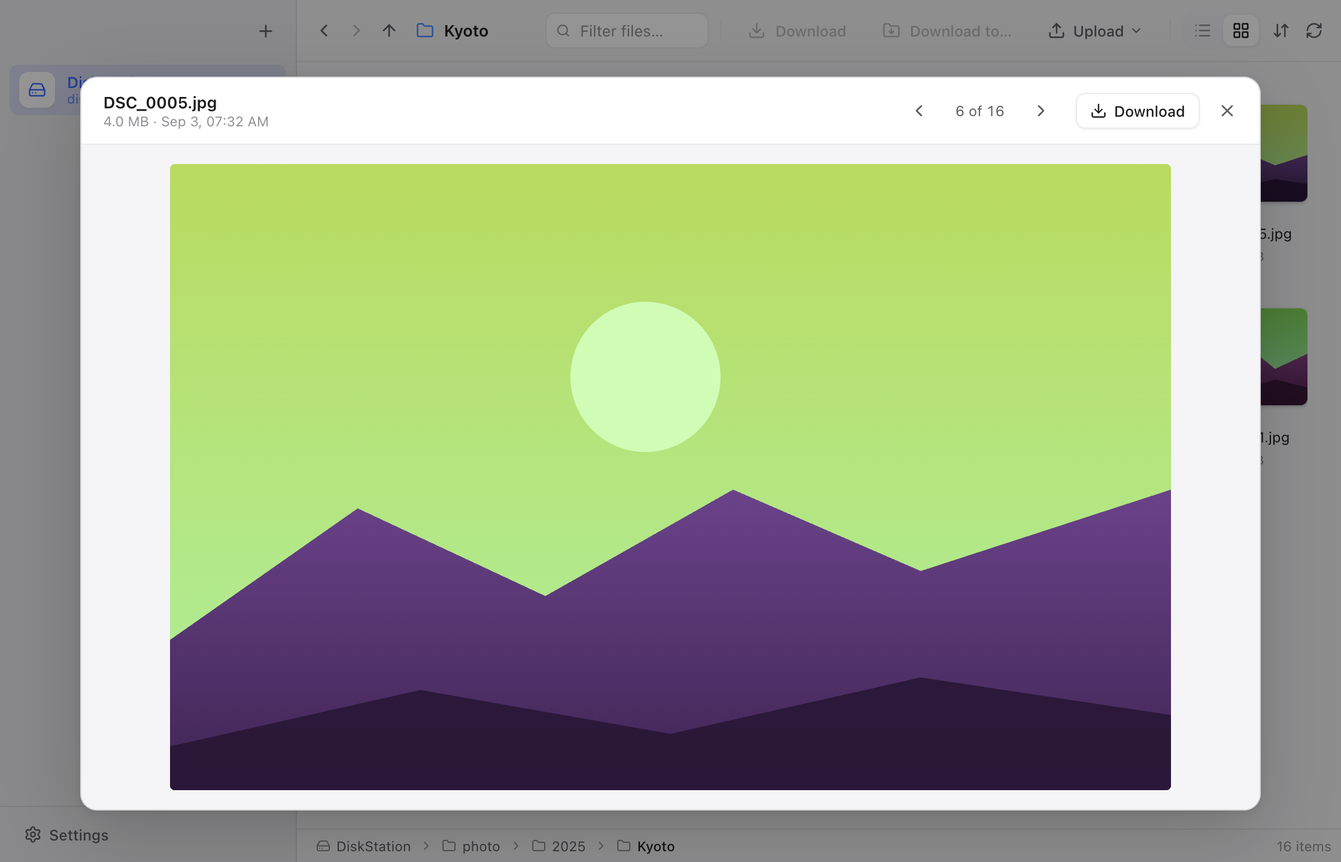
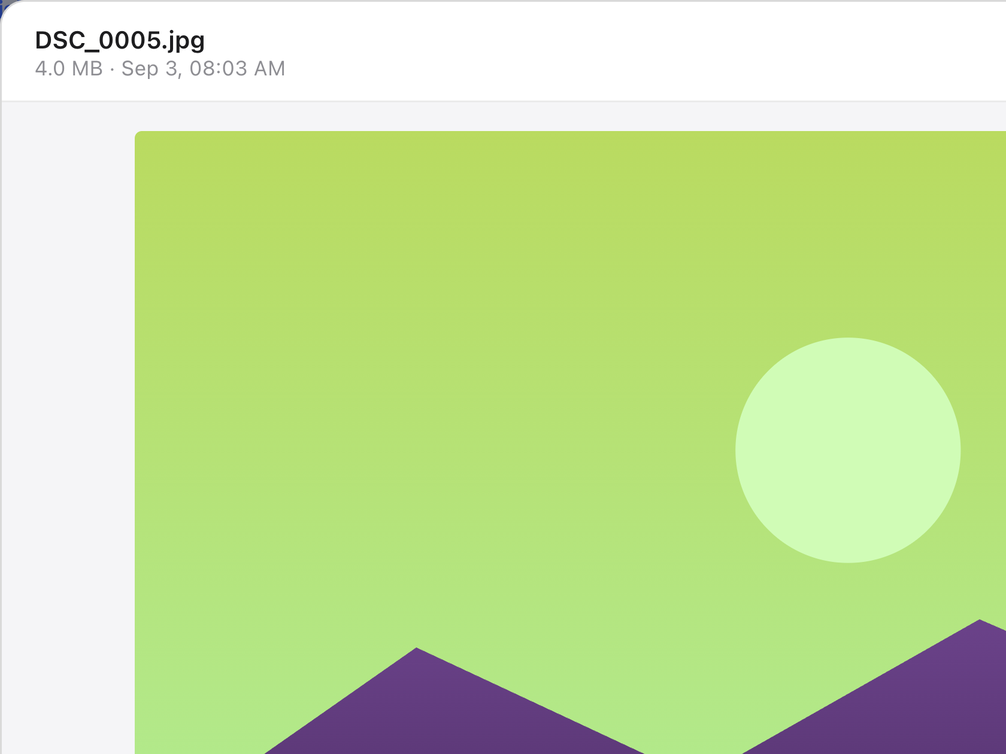
Website: replace full-window gallery with six feature close-ups
Full-window screenshots all looked alike, so the gallery now shows 4:3
close-ups rendered at 3x, each on one feature: the saved NAS in the
sidebar, photo thumbnails, Quick Look, the transfers popover, discovered
servers and the appearance/language settings. The screenshot script
crops around the elements it finds on the page; only the hero keeps the
whole window.

diff --git a/docs/index.html b/docs/index.html
@@ -76,12 +76,13 @@
   .shot .light.r { left: 1.7%; background: var(--mac-red); } .shot .light.y { left: 3.75%; background: var(--mac-yel); } .shot .light.g { left: 5.8%; background: var(--mac-grn); }
   .hero-shot { transform: perspective(1400px) rotateY(-6deg) rotateX(2deg); transition: transform .5s ease; }
   .hero-shot:hover { transform: none; }
-  .gallery { display: grid; grid-template-columns: 1fr 1fr; gap: 22px; margin-top: 36px; }
-  .gallery figure { margin: 0; }
-  .gallery figcaption { padding: 14px 6px 0; }
-  .gallery h3 { margin: 0 0 4px; font-size: 16px; }
-  .gallery p { margin: 0; font-size: 14px; color: var(--text-2); }
-  .gallery .wide { grid-column: 1 / -1; }
+  .details { display: grid; grid-template-columns: repeat(3, 1fr); gap: 22px; margin-top: 36px; }
+  .details figure { margin: 0; }
+  .detail { border-radius: 14px; overflow: hidden; border: 1px solid var(--line-2); background: var(--bg-2); box-shadow: 0 10px 30px rgba(0,0,0,.10); aspect-ratio: 4 / 3; }
+  .detail img { display: block; width: 100%; height: 100%; object-fit: cover; }
+  .details figcaption { padding: 14px 6px 0; }
+  .details h3 { margin: 0 0 4px; font-size: 16px; }
+  .details p { margin: 0; font-size: 14px; color: var(--text-2); }
   /* Sections */
   section { padding: 72px 0; }
   .kicker { color: var(--accent); font-weight: 700; font-size: 13px; letter-spacing: .06em; text-transform: uppercase; }
@@ -117,12 +118,13 @@
   @media (max-width: 900px) {
     .hero { grid-template-columns: 1fr; padding-top: 56px; }
     .hero-shot { transform: none; }
-    .gallery { grid-template-columns: 1fr; }
+    .details { grid-template-columns: 1fr; }
     .three, .steps, .stats { grid-template-columns: 1fr; }
     .grid { grid-template-columns: 1fr 1fr; }
     .oss { grid-template-columns: 1fr; padding: 28px; }
     nav .links a.hide-sm { display: none; }
   }
+  @media (max-width: 1000px) and (min-width: 561px) { .details { grid-template-columns: 1fr 1fr; } }
   @media (max-width: 560px) { .grid { grid-template-columns: 1fr; } }
 </style>
 </head>
@@ -188,13 +190,14 @@
   </section>
   <section id="screens">
     <span class="kicker" data-i18n="gallery.kicker">See it in action</span>
-    <h2 data-i18n="gallery.title">The whole app, at a glance</h2>
-    <div class="gallery">
-      <figure class="wide"><div class="shot"><img data-shot="quicklook" alt="Quick Look of a photo"><i class="light r"></i><i class="light y"></i><i class="light g"></i></div><figcaption><h3 data-i18n="g1.h">Quick Look</h3><p data-i18n="g1.p">Space opens photos, video, PDF and text straight from the NAS; the arrow keys walk through the folder.</p></figcaption></figure>
-      <figure><div class="shot"><img data-shot="list" alt="Folder listing"><i class="light r"></i><i class="light y"></i><i class="light g"></i></div><figcaption><h3 data-i18n="g2.h">Folders that load instantly</h3><p data-i18n="g2.p">List or grid, sortable, with a search box that filters as you type.</p></figcaption></figure>
-      <figure><div class="shot"><img data-shot="transfers" alt="Transfers popover"><i class="light r"></i><i class="light y"></i><i class="light g"></i></div><figcaption><h3 data-i18n="g3.h">Transfers you can trust</h3><p data-i18n="g3.p">Progress, pause and resume in a small popover; interrupted transfers pick up where they left off.</p></figcaption></figure>
-      <figure><div class="shot"><img data-shot="discover" alt="Add NAS dialog with discovered servers"><i class="light r"></i><i class="light y"></i><i class="light g"></i></div><figcaption><h3 data-i18n="g4.h">Your NAS finds you</h3><p data-i18n="g4.p">The add dialog lists every SMB server on the network: pick one, enter the password once, done.</p></figcaption></figure>
-      <figure><div class="shot"><img data-shot="settings" alt="Settings"><i class="light r"></i><i class="light y"></i><i class="light g"></i></div><figcaption><h3 data-i18n="g5.h">Settings that fit on one screen</h3><p data-i18n="g5.p">Download folder, double-click behaviour, appearance, language and one-click updates.</p></figcaption></figure>
+    <h2 data-i18n="gallery.title">Six details worth a closer look</h2>
+    <div class="details">
+      <figure><div class="detail"><img data-shot="sidebar" alt="The saved NAS in the sidebar, connected"></div><figcaption><h3 data-i18n="g2.h">Saved once, always there</h3><p data-i18n="g2.p">Your NAS lives in the sidebar and is connected the moment the app opens.</p></figcaption></figure>
+      <figure><div class="detail"><img data-shot="thumbs" alt="Photo thumbnails in the grid view"></div><figcaption><h3 data-i18n="g6.h">Instant photo grids</h3><p data-i18n="g6.p">Thumbnails come from the previews cameras embed in every photo, so folders of RAW and HEIC files fill in right away.</p></figcaption></figure>
+      <figure><div class="detail"><img data-shot="quicklook" alt="Quick Look of a photo"></div><figcaption><h3 data-i18n="g1.h">Quick Look</h3><p data-i18n="g1.p">Space opens photos, video, PDF and text straight from the NAS; the arrow keys walk through the folder.</p></figcaption></figure>
+      <figure><div class="detail"><img data-shot="transfers" alt="Transfers popover with a download in progress"></div><figcaption><h3 data-i18n="g3.h">Transfers you can trust</h3><p data-i18n="g3.p">Progress, pause and resume in a small popover; interrupted transfers pick up where they left off.</p></figcaption></figure>
+      <figure><div class="detail"><img data-shot="discover" alt="NAS devices found on the network"></div><figcaption><h3 data-i18n="g4.h">Your NAS finds you</h3><p data-i18n="g4.p">The add dialog lists every SMB server on the network: pick one, enter the password once, done.</p></figcaption></figure>
+      <figure><div class="detail"><img data-shot="settings" alt="Appearance and language settings"></div><figcaption><h3 data-i18n="g5.h">Appearance and language</h3><p data-i18n="g5.p">Light, dark or automatic, and ten interface languages, switched without a restart.</p></figcaption></figure>
     </div>
   </section>
 
@@ -271,7 +274,7 @@ const I18N = {
     "s1.h": "安装", "s1.p": "macOS 打开 .dmg，Windows 运行安装器，不需要管理员权限。",
     "s2.h": "选择你的 NAS", "s2.p": "通常已经列出来了。输入一次用户名和密码，它们会进入钥匙串。",
     "s3.h": "完成", "s3.p": "从现在起，打开 Neat NAS 就等于打开你的文件。",
-    "oss.kicker": "开源", "oss.title": "MIT 协议。欢迎 Star、Fork 和翻译。", "oss.sub": "Neat NAS 用 Rust、Tauri 和 React 构建，每一行代码都在 GitHub 上。欢迎提交问题、翻译和 PR。", "oss.btn": "在 GitHub 上查看", "oss.issue": "反馈问题", "gallery.kicker": "看看实际效果", "gallery.title": "整个应用，一眼看完", "g1.h": "快速预览", "g1.p": "按空格直接从 NAS 打开照片、视频、PDF 和文本，左右键翻看整个文件夹。", "g2.h": "秒开的文件夹", "g2.p": "列表或网格，可排序，搜索框边打字边筛选。", "g3.h": "放心的传输", "g3.p": "进度、暂停、继续都在一个小面板里，中断的传输从断点接着传。", "g4.h": "NAS 自己找上门", "g4.p": "添加对话框列出局域网里所有 SMB 服务器，选一个，输一次密码，完事。", "g5.h": "一屏放下的设置", "g5.p": "下载文件夹、双击行为、外观、语言和一键更新。" },
+    "oss.kicker": "开源", "oss.title": "MIT 协议。欢迎 Star、Fork 和翻译。", "oss.sub": "Neat NAS 用 Rust、Tauri 和 React 构建，每一行代码都在 GitHub 上。欢迎提交问题、翻译和 PR。", "oss.btn": "在 GitHub 上查看", "oss.issue": "反馈问题", "gallery.kicker": "看看实际效果", "gallery.title": "六个值得放大看的细节", "g1.h": "快速预览", "g1.p": "按空格直接从 NAS 打开照片、视频、PDF 和文本，左右键翻看整个文件夹。", "g2.h": "记一次，一直在", "g2.p": "NAS 就住在侧栏里，应用一打开就已连上。", "g3.h": "放心的传输", "g3.p": "进度、暂停、继续都在一个小面板里，中断的传输从断点接着传。", "g4.h": "NAS 自己找上门", "g4.p": "添加对话框列出局域网里所有 SMB 服务器，选一个，输一次密码，完事。", "g5.h": "外观与语言", "g5.p": "浅色、深色或自动，十种界面语言，切换不用重启。", "g6.h": "秒开的照片网格", "g6.p": "缩略图来自相机内嵌在每张照片里的预览，RAW 和 HEIC 文件夹也能立刻铺满。" },
   "zh-TW": { name: "繁體中文",
     "nav.features": "功能", "nav.download": "下載",
     "hero.eyebrow": "macOS · Windows · 免費開源",
@@ -299,7 +302,7 @@ const I18N = {
     "s1.h": "安裝", "s1.p": "macOS 開啟 .dmg，Windows 執行安裝程式，不需要管理員權限。",
     "s2.h": "選擇你的 NAS", "s2.p": "通常已經列出來了。輸入一次使用者名稱和密碼，它們會進入鑰匙圈。",
     "s3.h": "完成", "s3.p": "從現在起，開啟 Neat NAS 就等於開啟你的檔案。",
-    "oss.kicker": "開源", "oss.title": "MIT 授權。歡迎 Star、Fork 和翻譯。", "oss.sub": "Neat NAS 以 Rust、Tauri 和 React 打造，每一行程式碼都在 GitHub 上。歡迎回報問題、翻譯和 PR。", "oss.btn": "在 GitHub 上查看", "oss.issue": "回報問題", "gallery.kicker": "看看實際效果", "gallery.title": "整個應用程式，一眼看完", "g1.h": "快速查看", "g1.p": "按空白鍵直接從 NAS 開啟照片、影片、PDF 和文字，左右鍵翻看整個資料夾。", "g2.h": "秒開的資料夾", "g2.p": "列表或格狀，可排序，搜尋框邊打字邊篩選。", "g3.h": "放心的傳輸", "g3.p": "進度、暫停、繼續都在一個小面板裡，中斷的傳輸從斷點接著傳。", "g4.h": "NAS 自己找上門", "g4.p": "新增對話框列出區域網路裡所有 SMB 伺服器，選一個，輸入一次密碼，完成。", "g5.h": "一個畫面放得下的設定", "g5.p": "下載資料夾、雙擊行為、外觀、語言和一鍵更新。" },
+    "oss.kicker": "開源", "oss.title": "MIT 授權。歡迎 Star、Fork 和翻譯。", "oss.sub": "Neat NAS 以 Rust、Tauri 和 React 打造，每一行程式碼都在 GitHub 上。歡迎回報問題、翻譯和 PR。", "oss.btn": "在 GitHub 上查看", "oss.issue": "回報問題", "gallery.kicker": "看看實際效果", "gallery.title": "六個值得放大看的細節", "g1.h": "快速查看", "g1.p": "按空白鍵直接從 NAS 開啟照片、影片、PDF 和文字，左右鍵翻看整個資料夾。", "g2.h": "記一次，一直都在", "g2.p": "NAS 就住在側欄裡，應用程式一開啟就已連線。", "g3.h": "放心的傳輸", "g3.p": "進度、暫停、繼續都在一個小面板裡，中斷的傳輸從斷點接著傳。", "g4.h": "NAS 自己找上門", "g4.p": "新增對話框列出區域網路裡所有 SMB 伺服器，選一個，輸入一次密碼，完成。", "g5.h": "外觀與語言", "g5.p": "淺色、深色或自動，十種介面語言，切換不必重啟。", "g6.h": "秒開的照片格狀檢視", "g6.p": "縮圖來自相機內嵌在每張照片裡的預覽，RAW 和 HEIC 資料夾也能立刻填滿。" },
   ja: { name: "日本語",
     "nav.features": "機能", "nav.download": "ダウンロード",
     "hero.eyebrow": "macOS · Windows · 無料・オープンソース",
@@ -327,7 +330,7 @@ const I18N = {
     "s1.h": "インストール", "s1.p": "macOS は .dmg を開き、Windows はインストーラーを実行。管理者権限は不要です。",
     "s2.h": "NAS を選ぶ", "s2.p": "たいてい一覧にもう並んでいます。ユーザー名とパスワードを一度入力すると、キーチェーンに保存されます。",
     "s3.h": "これだけ", "s3.p": "これからは Neat NAS を開く＝ファイルを開く、です。",
-    "oss.kicker": "オープンソース", "oss.title": "MIT ライセンス。Star、Fork、翻訳を歓迎します。", "oss.sub": "Neat NAS は Rust、Tauri、React で作られ、すべてのコードが GitHub にあります。バグ報告、翻訳、プルリクエストをお待ちしています。", "oss.btn": "GitHub で見る", "oss.issue": "バグを報告", "gallery.kicker": "実際の画面", "gallery.title": "アプリの全体を、ひと目で", "g1.h": "クイックルック", "g1.p": "スペースキーで写真・動画・PDF・テキストを NAS から直接開き、矢印キーでフォルダ内を移動。", "g2.h": "一瞬で開くフォルダ", "g2.p": "リストでもグリッドでも、並べ替えでき、検索欄は入力と同時に絞り込み。", "g3.h": "安心して任せられる転送", "g3.p": "進捗・一時停止・再開が小さなパネルに。中断した転送は途中から再開。", "g4.h": "NAS のほうから見つかる", "g4.p": "追加ダイアログにネットワーク上の SMB サーバーがすべて並びます。選んでパスワードを一度入れるだけ。", "g5.h": "一画面に収まる設定", "g5.p": "ダウンロード先、ダブルクリックの動作、外観、言語、ワンクリック更新。" },
+    "oss.kicker": "オープンソース", "oss.title": "MIT ライセンス。Star、Fork、翻訳を歓迎します。", "oss.sub": "Neat NAS は Rust、Tauri、React で作られ、すべてのコードが GitHub にあります。バグ報告、翻訳、プルリクエストをお待ちしています。", "oss.btn": "GitHub で見る", "oss.issue": "バグを報告", "gallery.kicker": "実際の画面", "gallery.title": "拡大して見たい 6 つのディテール", "g1.h": "クイックルック", "g1.p": "スペースキーで写真・動画・PDF・テキストを NAS から直接開き、矢印キーでフォルダ内を移動。", "g2.h": "一度覚えれば、ずっとそこに", "g2.p": "NAS はサイドバーに住んでいて、アプリを開いた瞬間にはもう接続済み。", "g3.h": "安心して任せられる転送", "g3.p": "進捗・一時停止・再開が小さなパネルに。中断した転送は途中から再開。", "g4.h": "NAS のほうから見つかる", "g4.p": "追加ダイアログにネットワーク上の SMB サーバーがすべて並びます。選んでパスワードを一度入れるだけ。", "g5.h": "外観と言語", "g5.p": "ライト・ダーク・自動と 10 の表示言語。再起動なしで切り替え。", "g6.h": "一瞬で並ぶ写真グリッド", "g6.p": "サムネイルはカメラが埋め込んだプレビューから。RAW や HEIC のフォルダもすぐに埋まります。" },
   ko: { name: "한국어",
     "nav.features": "기능", "nav.download": "다운로드",
     "hero.eyebrow": "macOS · Windows · 무료 오픈소스",
@@ -355,7 +358,7 @@ const I18N = {
     "s1.h": "설치", "s1.p": "macOS는 .dmg를 열고 Windows는 설치 파일을 실행하세요. 관리자 권한이 필요 없습니다.",
     "s2.h": "NAS 선택", "s2.p": "대개 이미 목록에 있습니다. 사용자 이름과 비밀번호를 한 번 입력하면 키체인에 저장됩니다.",
     "s3.h": "끝", "s3.p": "이제 Neat NAS를 여는 것이 곧 파일을 여는 것입니다.",
-    "oss.kicker": "오픈소스", "oss.title": "MIT 라이선스. Star, Fork, 번역을 환영합니다.", "oss.sub": "Neat NAS는 Rust, Tauri, React로 만들어졌고 모든 코드가 GitHub에 있습니다. 버그 신고, 번역, PR을 환영합니다.", "oss.btn": "GitHub에서 보기", "oss.issue": "버그 신고", "gallery.kicker": "실제 화면", "gallery.title": "앱 전체를 한눈에", "g1.h": "훑어보기", "g1.p": "스페이스 키로 사진, 동영상, PDF, 텍스트를 NAS에서 바로 열고, 화살표로 폴더를 넘깁니다.", "g2.h": "즉시 열리는 폴더", "g2.p": "목록이든 격자든 정렬할 수 있고, 검색창은 입력하는 대로 걸러 줍니다.", "g3.h": "믿을 수 있는 전송", "g3.p": "진행률, 일시 정지, 재개가 작은 패널 하나에. 끊긴 전송은 멈춘 곳부터 이어집니다.", "g4.h": "NAS가 먼저 찾아옵니다", "g4.p": "추가 대화상자에 네트워크의 모든 SMB 서버가 나열됩니다. 하나 고르고 비밀번호를 한 번 입력하면 끝.", "g5.h": "한 화면에 담긴 설정", "g5.p": "다운로드 폴더, 두 번 클릭 동작, 모양, 언어, 원클릭 업데이트." },
+    "oss.kicker": "오픈소스", "oss.title": "MIT 라이선스. Star, Fork, 번역을 환영합니다.", "oss.sub": "Neat NAS는 Rust, Tauri, React로 만들어졌고 모든 코드가 GitHub에 있습니다. 버그 신고, 번역, PR을 환영합니다.", "oss.btn": "GitHub에서 보기", "oss.issue": "버그 신고", "gallery.kicker": "실제 화면", "gallery.title": "가까이서 볼 만한 6가지 디테일", "g1.h": "훑어보기", "g1.p": "스페이스 키로 사진, 동영상, PDF, 텍스트를 NAS에서 바로 열고, 화살표로 폴더를 넘깁니다.", "g2.h": "한 번 저장하면 늘 그 자리에", "g2.p": "NAS는 사이드바에 살고, 앱을 여는 순간 이미 연결되어 있습니다.", "g3.h": "믿을 수 있는 전송", "g3.p": "진행률, 일시 정지, 재개가 작은 패널 하나에. 끊긴 전송은 멈춘 곳부터 이어집니다.", "g4.h": "NAS가 먼저 찾아옵니다", "g4.p": "추가 대화상자에 네트워크의 모든 SMB 서버가 나열됩니다. 하나 고르고 비밀번호를 한 번 입력하면 끝.", "g5.h": "모양과 언어", "g5.p": "라이트, 다크, 자동과 10개 인터페이스 언어. 재시작 없이 바뀝니다.", "g6.h": "즉시 뜨는 사진 격자", "g6.p": "썸네일은 카메라가 사진마다 넣어 둔 미리보기에서 옵니다. RAW와 HEIC 폴더도 바로 채워집니다." },
   de: { name: "Deutsch",
     "nav.features": "Funktionen", "nav.download": "Download",
     "hero.eyebrow": "macOS · Windows · Kostenlos und Open Source",
@@ -383,7 +386,7 @@ const I18N = {
     "s1.h": "Installieren", "s1.p": "Auf dem Mac die .dmg öffnen, unter Windows das Setup ausführen. Keine Adminrechte nötig.",
     "s2.h": "NAS auswählen", "s2.p": "Meist steht es schon in der Liste. Benutzername und Passwort einmal eingeben, sie wandern in den Schlüsselbund.",
     "s3.h": "Fertig", "s3.p": "Ab jetzt heißt Neat NAS öffnen: deine Dateien öffnen.",
-    "oss.kicker": "Open Source", "oss.title": "MIT-lizenziert. Stern vergeben, forken, übersetzen.", "oss.sub": "Neat NAS ist mit Rust, Tauri und React gebaut, jede Zeile liegt auf GitHub. Fehlerberichte, Übersetzungen und Pull Requests sind willkommen.", "oss.btn": "Auf GitHub ansehen", "oss.issue": "Fehler melden", "gallery.kicker": "In Aktion", "gallery.title": "Die ganze App auf einen Blick", "g1.h": "Übersicht", "g1.p": "Die Leertaste öffnet Fotos, Video, PDF und Text direkt vom NAS; die Pfeiltasten blättern durch den Ordner.", "g2.h": "Ordner, die sofort da sind", "g2.p": "Liste oder Raster, sortierbar, mit einem Suchfeld, das beim Tippen filtert.", "g3.h": "Übertragungen, auf die Verlass ist", "g3.p": "Fortschritt, Pause und Fortsetzen in einem kleinen Fenster; unterbrochene Übertragungen machen dort weiter, wo sie waren.", "g4.h": "Dein NAS findet dich", "g4.p": "Der Dialog listet jeden SMB-Server im Netzwerk: einen auswählen, Passwort einmal eingeben, fertig.", "g5.h": "Einstellungen auf einer Seite", "g5.p": "Download-Ordner, Doppelklick-Verhalten, Erscheinungsbild, Sprache und Updates mit einem Klick." },
+    "oss.kicker": "Open Source", "oss.title": "MIT-lizenziert. Stern vergeben, forken, übersetzen.", "oss.sub": "Neat NAS ist mit Rust, Tauri und React gebaut, jede Zeile liegt auf GitHub. Fehlerberichte, Übersetzungen und Pull Requests sind willkommen.", "oss.btn": "Auf GitHub ansehen", "oss.issue": "Fehler melden", "gallery.kicker": "In Aktion", "gallery.title": "Sechs Details, die einen genauen Blick lohnen", "g1.h": "Übersicht", "g1.p": "Die Leertaste öffnet Fotos, Video, PDF und Text direkt vom NAS; die Pfeiltasten blättern durch den Ordner.", "g2.h": "Einmal gespeichert, immer da", "g2.p": "Dein NAS wohnt in der Seitenleiste und ist verbunden, sobald die App aufgeht.", "g3.h": "Übertragungen, auf die Verlass ist", "g3.p": "Fortschritt, Pause und Fortsetzen in einem kleinen Fenster; unterbrochene Übertragungen machen dort weiter, wo sie waren.", "g4.h": "Dein NAS findet dich", "g4.p": "Der Dialog listet jeden SMB-Server im Netzwerk: einen auswählen, Passwort einmal eingeben, fertig.", "g5.h": "Erscheinungsbild und Sprache", "g5.p": "Hell, dunkel oder automatisch und zehn Oberflächensprachen, umgeschaltet ohne Neustart.", "g6.h": "Fotoraster ohne Wartezeit", "g6.p": "Miniaturen stammen aus der Vorschau, die Kameras in jedes Foto einbetten; RAW- und HEIC-Ordner füllen sich sofort." },
   es: { name: "Español",
     "nav.features": "Funciones", "nav.download": "Descargar",
     "hero.eyebrow": "macOS · Windows · Gratis y de código abierto",
@@ -411,7 +414,7 @@ const I18N = {
     "s1.h": "Instala", "s1.p": "Abre el .dmg en macOS o ejecuta el instalador en Windows. Sin permisos de administrador.",
     "s2.h": "Elige tu NAS", "s2.p": "Normalmente ya está en la lista. Escribe usuario y contraseña una vez; van al llavero.",
     "s3.h": "Listo", "s3.p": "Desde ahora, abrir Neat NAS es abrir tus archivos.",
-    "oss.kicker": "Código abierto", "oss.title": "Licencia MIT. Dale una estrella, haz un fork, tradúcelo.", "oss.sub": "Neat NAS está hecho con Rust, Tauri y React, y cada línea está en GitHub. Se agradecen informes de errores, traducciones y pull requests.", "oss.btn": "Ver en GitHub", "oss.issue": "Informar de un error", "gallery.kicker": "En acción", "gallery.title": "Toda la app, de un vistazo", "g1.h": "Vista rápida", "g1.p": "La barra espaciadora abre fotos, vídeo, PDF y texto directamente desde el NAS; las flechas recorren la carpeta.", "g2.h": "Carpetas que cargan al instante", "g2.p": "Lista o cuadrícula, ordenables, con un buscador que filtra mientras escribes.", "g3.h": "Transferencias de confianza", "g3.p": "Progreso, pausa y reanudación en un pequeño panel; las transferencias interrumpidas siguen donde se quedaron.", "g4.h": "Tu NAS te encuentra", "g4.p": "El diálogo de añadir lista todos los servidores SMB de la red: elige uno, escribe la contraseña una vez y listo.", "g5.h": "Ajustes que caben en una pantalla", "g5.p": "Carpeta de descargas, comportamiento del doble clic, apariencia, idioma y actualizaciones con un clic." },
+    "oss.kicker": "Código abierto", "oss.title": "Licencia MIT. Dale una estrella, haz un fork, tradúcelo.", "oss.sub": "Neat NAS está hecho con Rust, Tauri y React, y cada línea está en GitHub. Se agradecen informes de errores, traducciones y pull requests.", "oss.btn": "Ver en GitHub", "oss.issue": "Informar de un error", "gallery.kicker": "En acción", "gallery.title": "Seis detalles que merecen un vistazo de cerca", "g1.h": "Vista rápida", "g1.p": "La barra espaciadora abre fotos, vídeo, PDF y texto directamente desde el NAS; las flechas recorren la carpeta.", "g2.h": "Guardado una vez, siempre ahí", "g2.p": "Tu NAS vive en la barra lateral y está conectado en cuanto se abre la app.", "g3.h": "Transferencias de confianza", "g3.p": "Progreso, pausa y reanudación en un pequeño panel; las transferencias interrumpidas siguen donde se quedaron.", "g4.h": "Tu NAS te encuentra", "g4.p": "El diálogo de añadir lista todos los servidores SMB de la red: elige uno, escribe la contraseña una vez y listo.", "g5.h": "Apariencia e idioma", "g5.p": "Claro, oscuro o automático, y diez idiomas de interfaz, sin reiniciar.", "g6.h": "Cuadrículas de fotos al instante", "g6.p": "Las miniaturas salen de la vista previa que la cámara incrusta en cada foto; las carpetas RAW y HEIC se llenan enseguida." },
   fr: { name: "Français",
     "nav.features": "Fonctions", "nav.download": "Télécharger",
     "hero.eyebrow": "macOS · Windows · Gratuit et open source",
@@ -439,7 +442,7 @@ const I18N = {
     "s1.h": "Installez", "s1.p": "Ouvrez le .dmg sur macOS ou lancez l’installeur sur Windows. Aucun droit administrateur nécessaire.",
     "s2.h": "Choisissez votre NAS", "s2.p": "Il est généralement déjà dans la liste. Saisissez nom d’utilisateur et mot de passe une fois ; ils rejoignent le trousseau.",
     "s3.h": "C’est tout", "s3.p": "Désormais, ouvrir Neat NAS, c’est ouvrir vos fichiers.",
-    "oss.kicker": "Open source", "oss.title": "Licence MIT. Une étoile, un fork, une traduction.", "oss.sub": "Neat NAS est construit avec Rust, Tauri et React, et chaque ligne est sur GitHub. Rapports de bugs, traductions et pull requests sont les bienvenus.", "oss.btn": "Voir sur GitHub", "oss.issue": "Signaler un bug", "gallery.kicker": "En action", "gallery.title": "Toute l’app, d’un coup d’œil", "g1.h": "Coup d’œil", "g1.p": "La barre d’espace ouvre photos, vidéo, PDF et texte directement depuis le NAS ; les flèches parcourent le dossier.", "g2.h": "Des dossiers instantanés", "g2.p": "Liste ou grille, triables, avec un champ de recherche qui filtre à la frappe.", "g3.h": "Des transferts fiables", "g3.p": "Progression, pause et reprise dans un petit panneau ; un transfert interrompu reprend là où il s’est arrêté.", "g4.h": "Votre NAS vous trouve", "g4.p": "La fenêtre d’ajout liste tous les serveurs SMB du réseau : choisissez-en un, saisissez le mot de passe une fois, c’est fait.", "g5.h": "Des réglages qui tiennent sur un écran", "g5.p": "Dossier de téléchargement, comportement du double-clic, apparence, langue et mises à jour en un clic." },
+    "oss.kicker": "Open source", "oss.title": "Licence MIT. Une étoile, un fork, une traduction.", "oss.sub": "Neat NAS est construit avec Rust, Tauri et React, et chaque ligne est sur GitHub. Rapports de bugs, traductions et pull requests sont les bienvenus.", "oss.btn": "Voir sur GitHub", "oss.issue": "Signaler un bug", "gallery.kicker": "En action", "gallery.title": "Six détails qui méritent un coup d’œil de près", "g1.h": "Coup d’œil", "g1.p": "La barre d’espace ouvre photos, vidéo, PDF et texte directement depuis le NAS ; les flèches parcourent le dossier.", "g2.h": "Enregistré une fois, toujours là", "g2.p": "Votre NAS vit dans la barre latérale et est connecté dès l’ouverture de l’app.", "g3.h": "Des transferts fiables", "g3.p": "Progression, pause et reprise dans un petit panneau ; un transfert interrompu reprend là où il s’est arrêté.", "g4.h": "Votre NAS vous trouve", "g4.p": "La fenêtre d’ajout liste tous les serveurs SMB du réseau : choisissez-en un, saisissez le mot de passe une fois, c’est fait.", "g5.h": "Apparence et langue", "g5.p": "Clair, sombre ou automatique, et dix langues d’interface, sans redémarrer.", "g6.h": "Des grilles de photos instantanées", "g6.p": "Les vignettes viennent de l’aperçu que l’appareil intègre dans chaque photo ; les dossiers RAW et HEIC se remplissent aussitôt." },
   "pt-BR": { name: "Português",
     "nav.features": "Recursos", "nav.download": "Baixar",
     "hero.eyebrow": "macOS · Windows · Grátis e open source",
@@ -467,7 +470,7 @@ const I18N = {
     "s1.h": "Instale", "s1.p": "Abra o .dmg no macOS ou rode o instalador no Windows. Sem direitos de administrador.",
     "s2.h": "Escolha seu NAS", "s2.p": "Ele costuma já estar na lista. Digite usuário e senha uma vez; eles vão para as chaves do sistema.",
     "s3.h": "Pronto", "s3.p": "A partir de agora, abrir o Neat NAS é abrir seus arquivos.",
-    "oss.kicker": "Open source", "oss.title": "Licença MIT. Dê uma estrela, faça um fork, traduza.", "oss.sub": "O Neat NAS é feito com Rust, Tauri e React, e cada linha está no GitHub. Relatos de bugs, traduções e pull requests são bem-vindos.", "oss.btn": "Ver no GitHub", "oss.issue": "Relatar um bug", "gallery.kicker": "Em ação", "gallery.title": "O app inteiro, num relance", "g1.h": "Visualização Rápida", "g1.p": "A barra de espaço abre fotos, vídeo, PDF e texto direto do NAS; as setas percorrem a pasta.", "g2.h": "Pastas que abrem na hora", "g2.p": "Lista ou grade, com ordenação e uma busca que filtra enquanto você digita.", "g3.h": "Transferências confiáveis", "g3.p": "Progresso, pausa e retomada num painel pequeno; transferências interrompidas continuam de onde pararam.", "g4.h": "Seu NAS encontra você", "g4.p": "O diálogo de adicionar lista todos os servidores SMB da rede: escolha um, digite a senha uma vez, pronto.", "g5.h": "Configurações que cabem numa tela", "g5.p": "Pasta de downloads, comportamento do clique duplo, aparência, idioma e atualizações com um clique." },
+    "oss.kicker": "Open source", "oss.title": "Licença MIT. Dê uma estrela, faça um fork, traduza.", "oss.sub": "O Neat NAS é feito com Rust, Tauri e React, e cada linha está no GitHub. Relatos de bugs, traduções e pull requests são bem-vindos.", "oss.btn": "Ver no GitHub", "oss.issue": "Relatar um bug", "gallery.kicker": "Em ação", "gallery.title": "Seis detalhes que merecem um olhar de perto", "g1.h": "Visualização Rápida", "g1.p": "A barra de espaço abre fotos, vídeo, PDF e texto direto do NAS; as setas percorrem a pasta.", "g2.h": "Salvo uma vez, sempre ali", "g2.p": "Seu NAS mora na barra lateral e já está conectado quando o app abre.", "g3.h": "Transferências confiáveis", "g3.p": "Progresso, pausa e retomada num painel pequeno; transferências interrompidas continuam de onde pararam.", "g4.h": "Seu NAS encontra você", "g4.p": "O diálogo de adicionar lista todos os servidores SMB da rede: escolha um, digite a senha uma vez, pronto.", "g5.h": "Aparência e idioma", "g5.p": "Claro, escuro ou automático, e dez idiomas de interface, sem reiniciar.", "g6.h": "Grades de fotos instantâneas", "g6.p": "As miniaturas vêm da prévia que a câmera embute em cada foto; pastas RAW e HEIC se preenchem na hora." },
   ru: { name: "Русский",
     "nav.features": "Возможности", "nav.download": "Скачать",
     "hero.eyebrow": "macOS · Windows · Бесплатно и с открытым кодом",
@@ -495,7 +498,7 @@ const I18N = {
     "s1.h": "Установите", "s1.p": "Откройте .dmg на macOS или запустите установщик на Windows. Права администратора не нужны.",
     "s2.h": "Выберите NAS", "s2.p": "Обычно он уже в списке. Введите имя пользователя и пароль один раз, они попадут в связку ключей.",
     "s3.h": "Готово", "s3.p": "Теперь открыть Neat NAS значит открыть свои файлы.",
-    "oss.kicker": "Открытый код", "oss.title": "Лицензия MIT. Ставьте звезду, форкайте, переводите.", "oss.sub": "Neat NAS написан на Rust, Tauri и React, и каждая строка лежит на GitHub. Сообщения об ошибках, переводы и pull request приветствуются.", "oss.btn": "Открыть на GitHub", "oss.issue": "Сообщить об ошибке", "gallery.kicker": "В деле", "gallery.title": "Всё приложение с одного взгляда", "g1.h": "Быстрый просмотр", "g1.p": "Пробел открывает фото, видео, PDF и текст прямо с NAS; стрелки листают папку.", "g2.h": "Папки открываются мгновенно", "g2.p": "Список или сетка, сортировка и поиск, который фильтрует по мере ввода.", "g3.h": "Передачи, на которые можно положиться", "g3.p": "Прогресс, пауза и продолжение в маленькой панели; прерванные передачи продолжаются с места остановки.", "g4.h": "NAS находит вас сам", "g4.p": "Окно добавления показывает все SMB-серверы в сети: выберите один, введите пароль один раз, готово.", "g5.h": "Настройки на одном экране", "g5.p": "Папка загрузок, действие двойного щелчка, оформление, язык и обновления в один щелчок." },
+    "oss.kicker": "Открытый код", "oss.title": "Лицензия MIT. Ставьте звезду, форкайте, переводите.", "oss.sub": "Neat NAS написан на Rust, Tauri и React, и каждая строка лежит на GitHub. Сообщения об ошибках, переводы и pull request приветствуются.", "oss.btn": "Открыть на GitHub", "oss.issue": "Сообщить об ошибке", "gallery.kicker": "В деле", "gallery.title": "Шесть деталей, на которые стоит взглянуть поближе", "g1.h": "Быстрый просмотр", "g1.p": "Пробел открывает фото, видео, PDF и текст прямо с NAS; стрелки листают папку.", "g2.h": "Сохранён один раз, всегда рядом", "g2.p": "Ваш NAS живёт в боковой панели и уже подключён, когда открывается приложение.", "g3.h": "Передачи, на которые можно положиться", "g3.p": "Прогресс, пауза и продолжение в маленькой панели; прерванные передачи продолжаются с места остановки.", "g4.h": "NAS находит вас сам", "g4.p": "Окно добавления показывает все SMB-серверы в сети: выберите один, введите пароль один раз, готово.", "g5.h": "Оформление и язык", "g5.p": "Светлая, тёмная или автоматическая тема и десять языков интерфейса, без перезапуска.", "g6.h": "Мгновенные сетки фото", "g6.p": "Миниатюры берутся из превью, встроенного камерой в каждый снимок; папки RAW и HEIC заполняются сразу." },
 };
 const EN = {};
 document.querySelectorAll("[data-i18n]").forEach(el => EN[el.dataset.i18n] = el.textContent);
